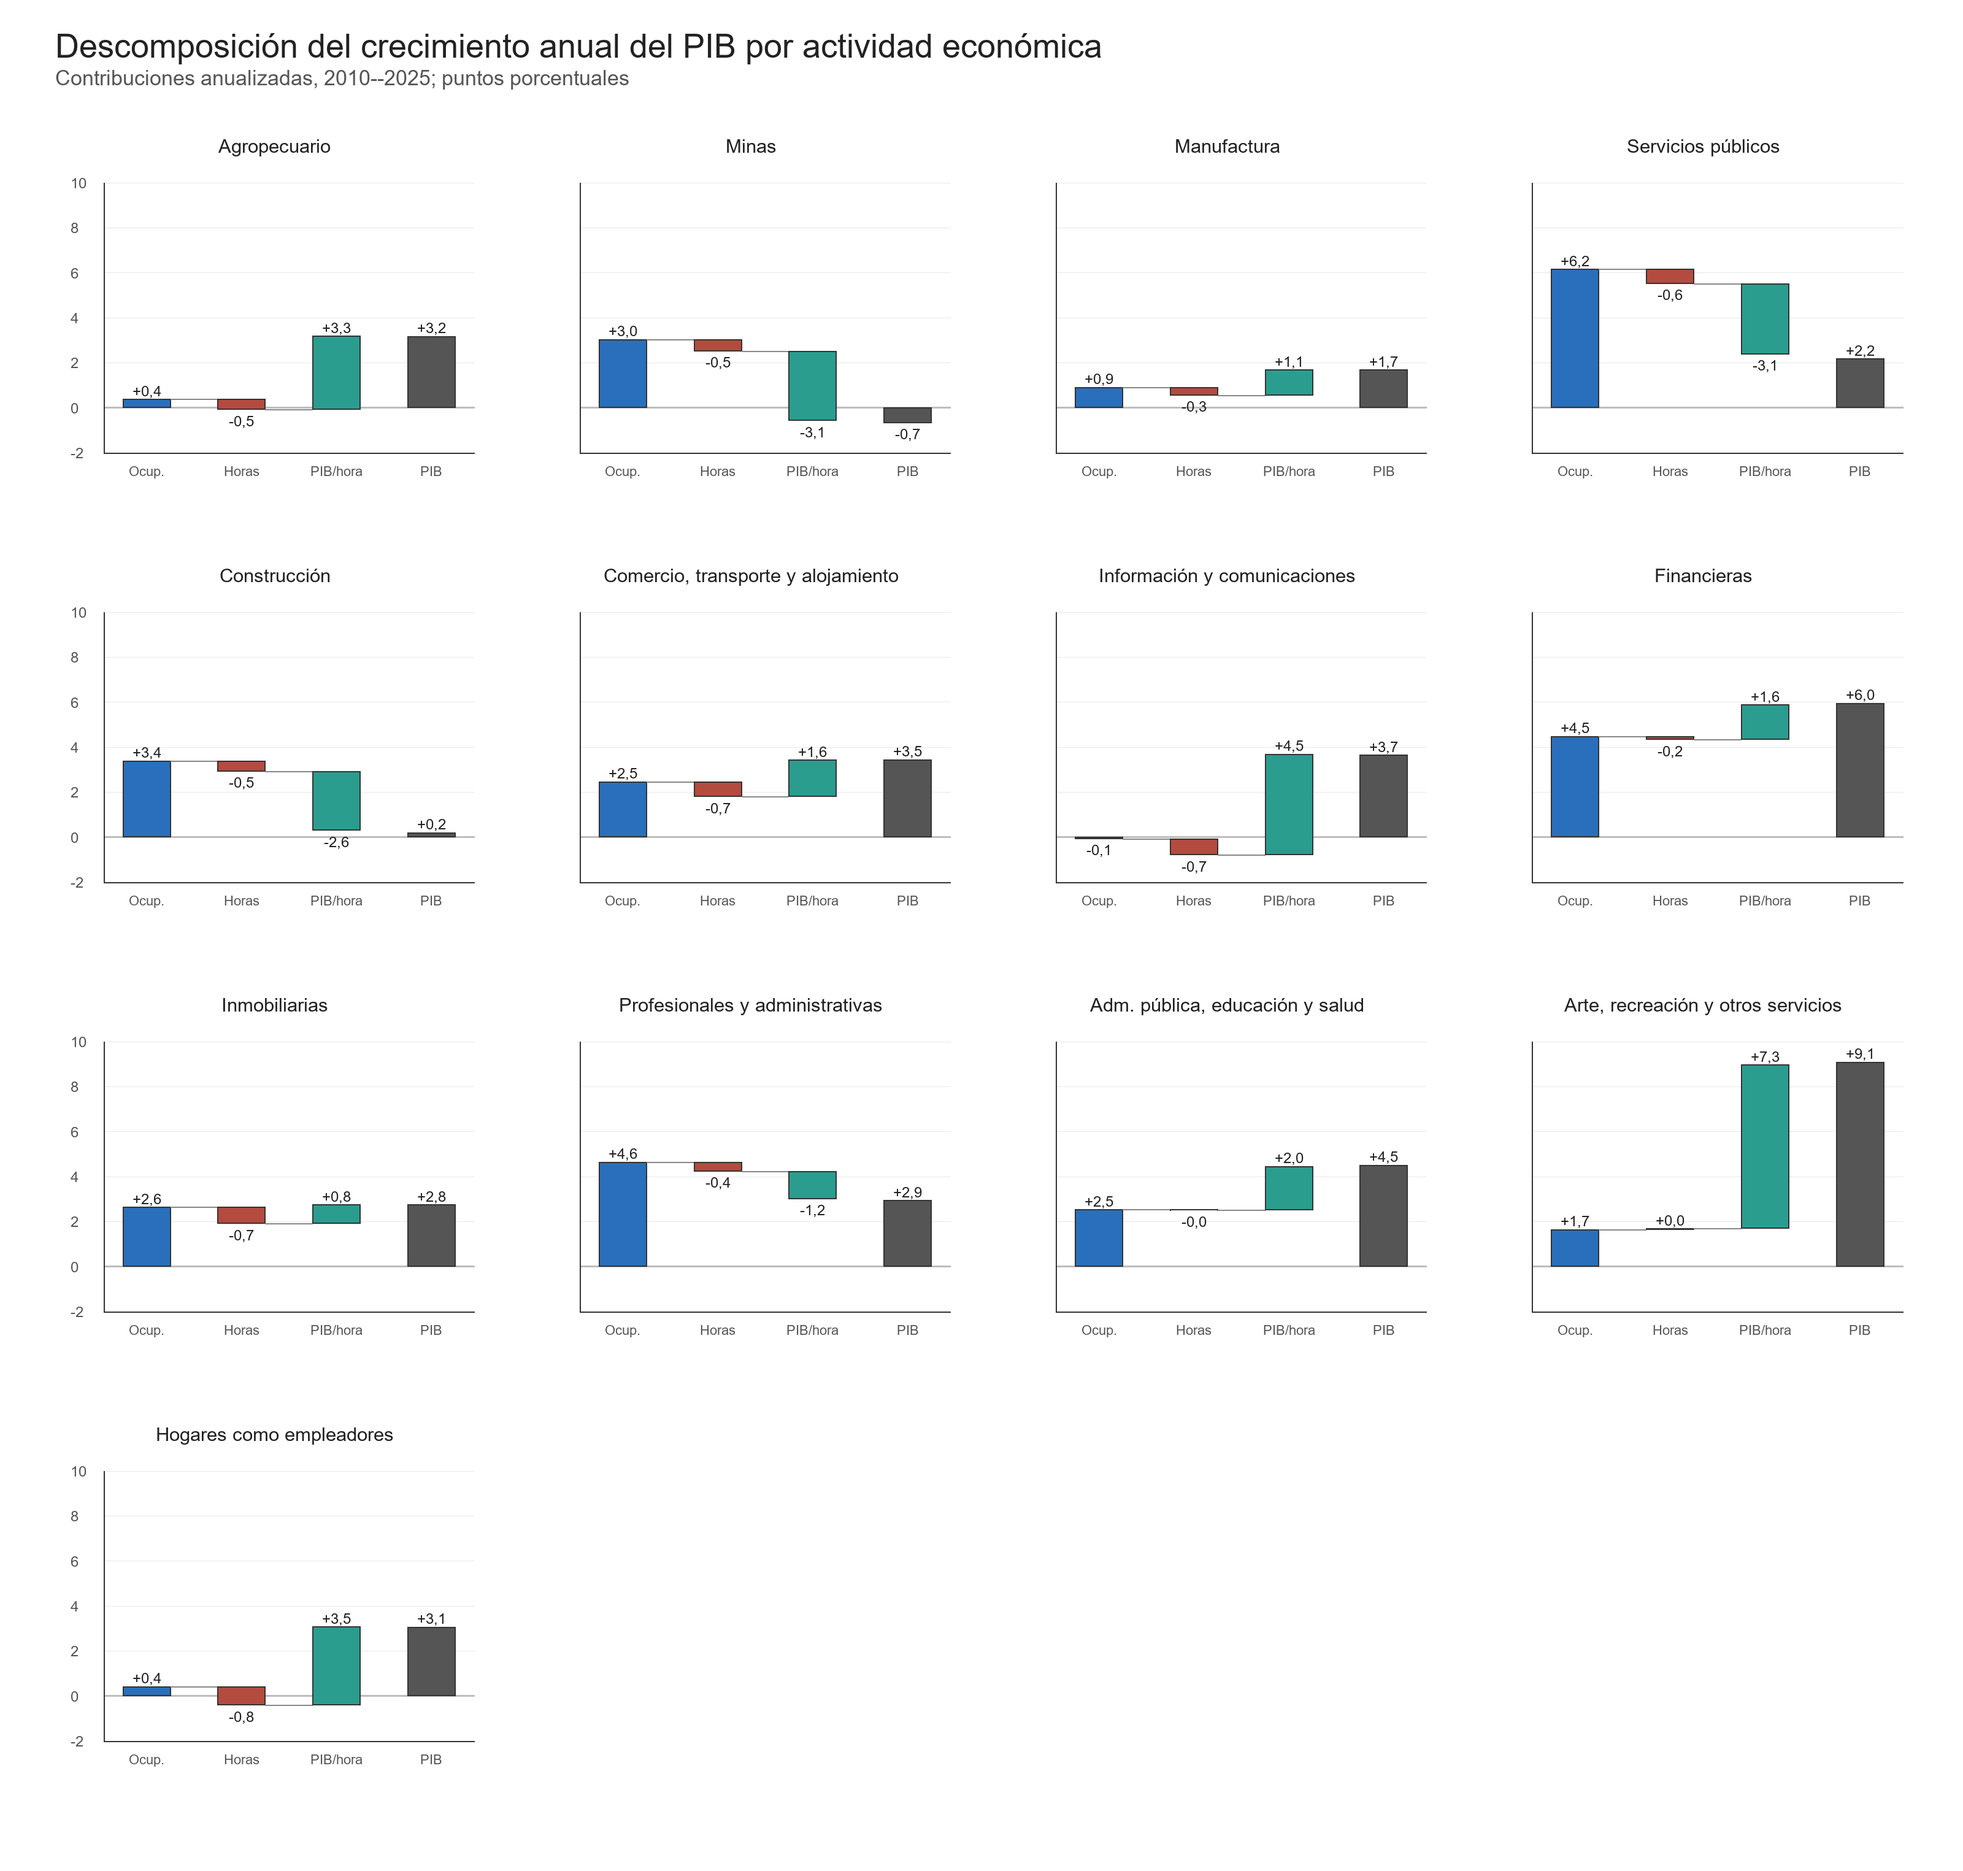
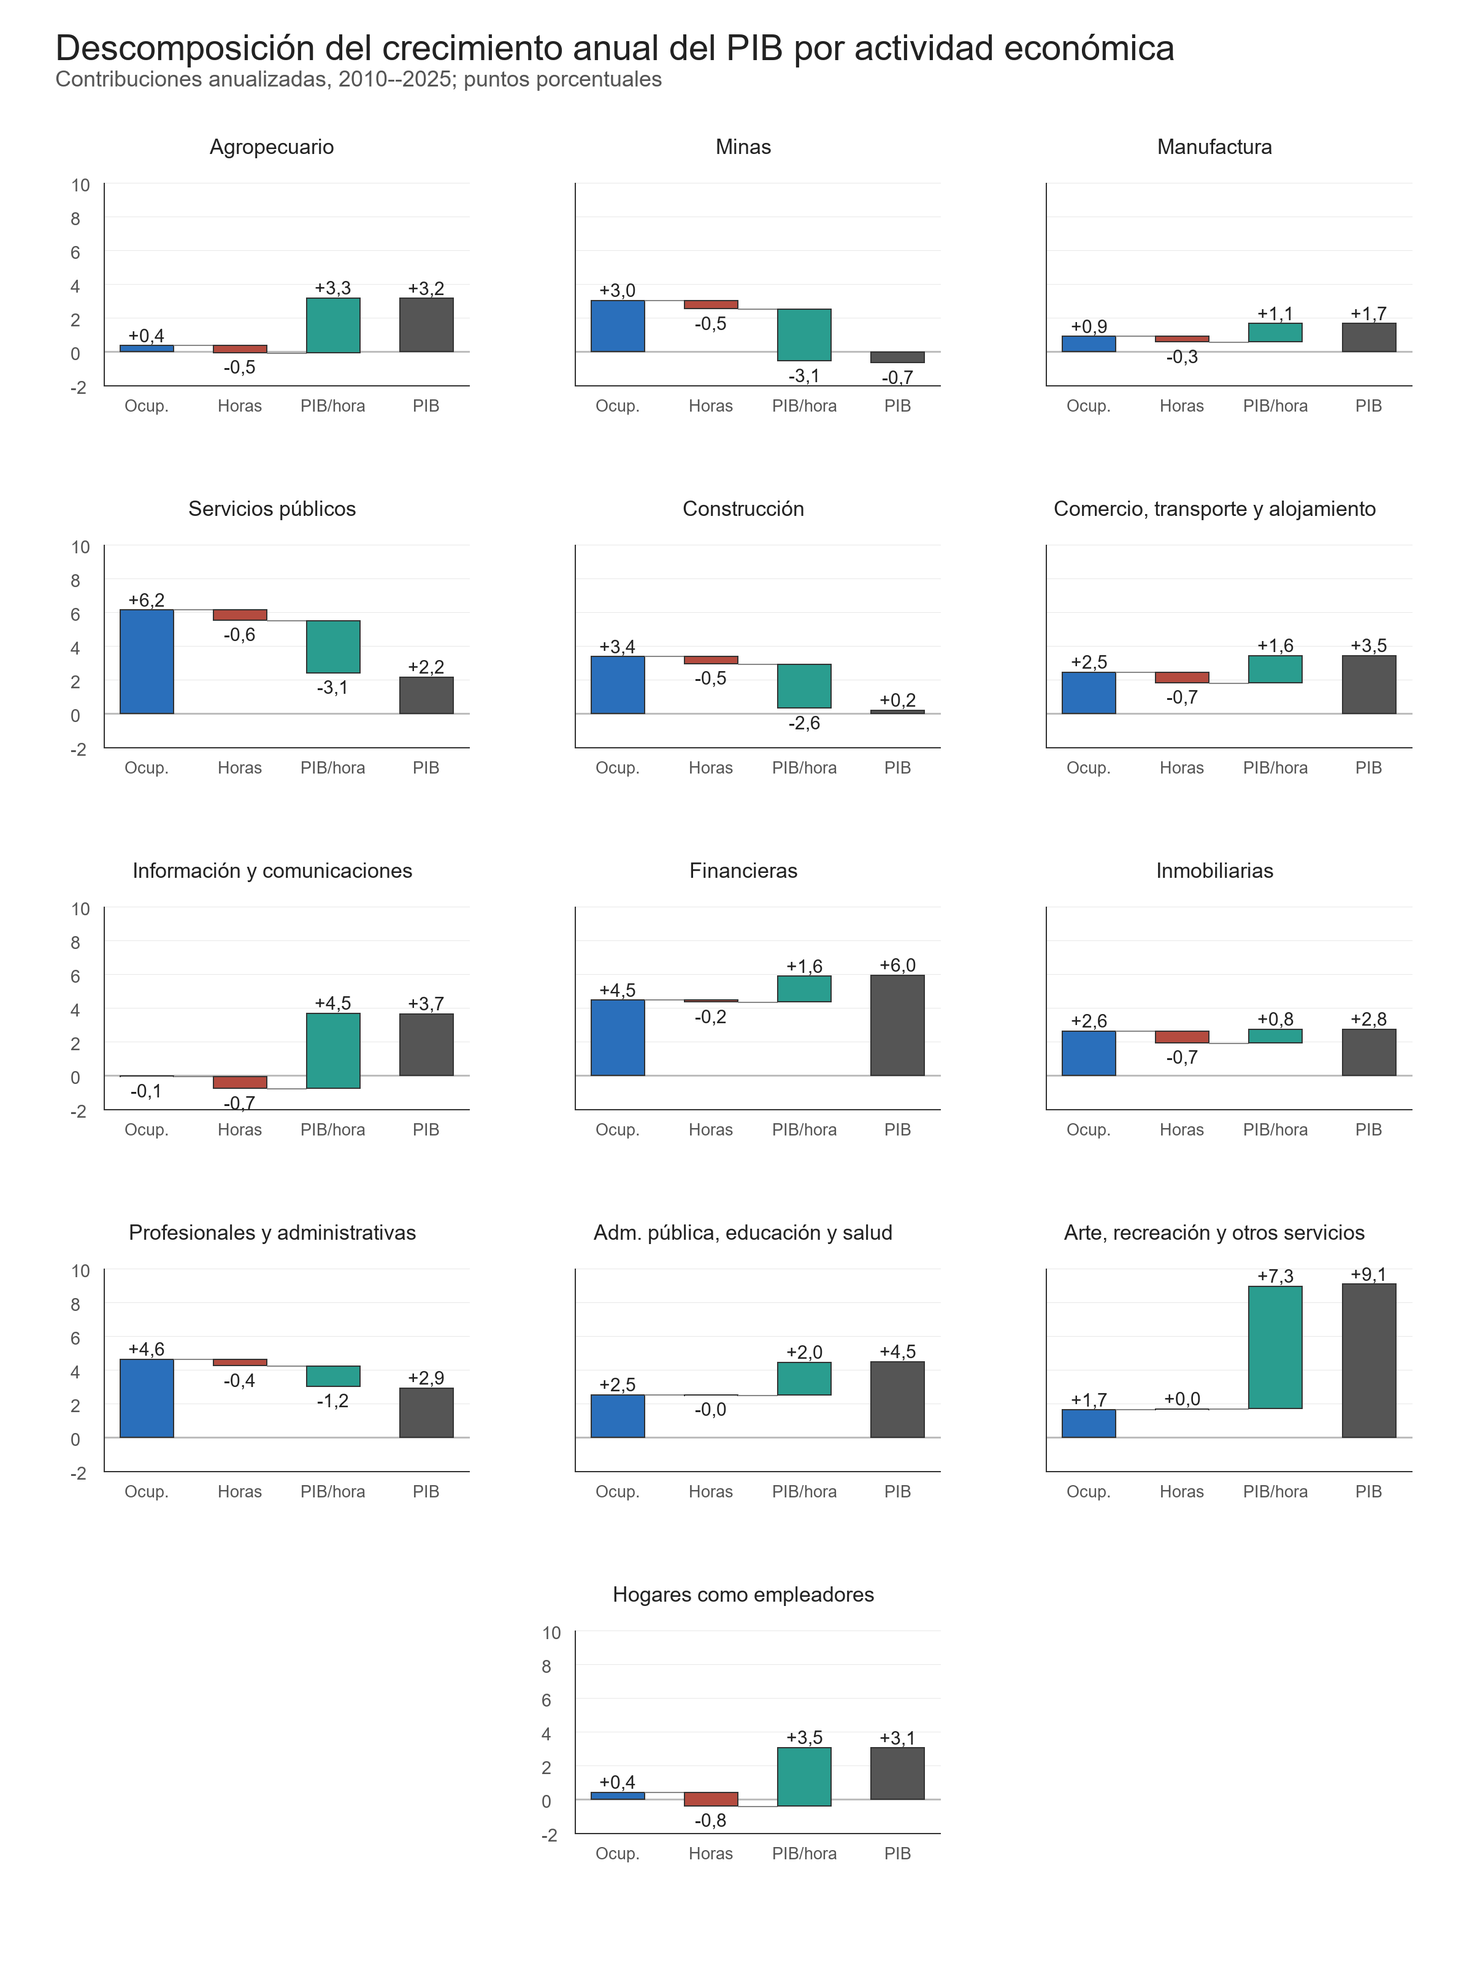
Amplia figura de descomposicion sectorial

diff --git a/Code/02.5_PIB_GEIH_Productividad.py b/Code/02.5_PIB_GEIH_Productividad.py
@@ -3200,18 +3200,18 @@ def draw_sector_growth_decomposition_panels(sector: pd.DataFrame) -> None:
     y_min = min(y_min, -1)
 
     n_panels = len(rows)
-    cols = 4 if n_panels > 12 else 3
+    cols = 3
     panel_rows = math.ceil(n_panels / cols)
-    img_w, img_h = (3200, 3050) if cols == 4 else (2400, 3150)
+    img_w, img_h = 2400, 3200
     img = Image.new("RGB", (img_w, img_h), "white")
     draw = ImageDraw.Draw(img)
     font = ImageFont.load_default()
-    title_font = ImageFont.truetype("arial.ttf", 54) if Path(r"C:\Windows\Fonts\arial.ttf").exists() else font
-    subtitle_font = ImageFont.truetype("arial.ttf", 34) if Path(r"C:\Windows\Fonts\arial.ttf").exists() else font
-    panel_font = ImageFont.truetype("arial.ttf", 31) if Path(r"C:\Windows\Fonts\arial.ttf").exists() else font
-    axis_font = ImageFont.truetype("arial.ttf", 24) if Path(r"C:\Windows\Fonts\arial.ttf").exists() else font
-    value_font = ImageFont.truetype("arial.ttf", 24) if Path(r"C:\Windows\Fonts\arial.ttf").exists() else font
-    small_font = ImageFont.truetype("arial.ttf", 22) if Path(r"C:\Windows\Fonts\arial.ttf").exists() else font
+    title_font = ImageFont.truetype("arial.ttf", 58) if Path(r"C:\Windows\Fonts\arial.ttf").exists() else font
+    subtitle_font = ImageFont.truetype("arial.ttf", 36) if Path(r"C:\Windows\Fonts\arial.ttf").exists() else font
+    panel_font = ImageFont.truetype("arial.ttf", 34) if Path(r"C:\Windows\Fonts\arial.ttf").exists() else font
+    axis_font = ImageFont.truetype("arial.ttf", 29) if Path(r"C:\Windows\Fonts\arial.ttf").exists() else font
+    value_font = ImageFont.truetype("arial.ttf", 30) if Path(r"C:\Windows\Fonts\arial.ttf").exists() else font
+    small_font = ImageFont.truetype("arial.ttf", 27) if Path(r"C:\Windows\Fonts\arial.ttf").exists() else font
 
     def text_width(text: str, used_font) -> int:
         bbox = draw.textbbox((0, 0), text, font=used_font)
@@ -3248,6 +3248,7 @@ def draw_sector_growth_decomposition_panels(sector: pd.DataFrame) -> None:
     gap_x, gap_y = 70, 90
     panel_w = (img_w - margin_left - margin_right - gap_x * (cols - 1)) / cols
     panel_h = (img_h - top_start - bottom_margin - gap_y * (panel_rows - 1)) / panel_rows
+    last_row_count = n_panels - (panel_rows - 1) * cols
 
     tick_start = math.floor(y_min / 2) * 2
     tick_end = math.ceil(y_max / 2) * 2
@@ -3255,7 +3256,8 @@ def draw_sector_growth_decomposition_panels(sector: pd.DataFrame) -> None:
     for idx, row_data in enumerate(rows):
         row = idx // cols
         col = idx % cols
-        panel_left = margin_left + col * (panel_w + gap_x)
+        col_offset = (cols - last_row_count) / 2 if row == panel_rows - 1 and last_row_count < cols else 0
+        panel_left = margin_left + (col + col_offset) * (panel_w + gap_x)
         panel_top = top_start + row * (panel_h + gap_y)
         panel_right = panel_left + panel_w
         panel_bottom = panel_top + panel_h
@@ -3266,7 +3268,7 @@ def draw_sector_growth_decomposition_panels(sector: pd.DataFrame) -> None:
 
         for line_no, text in enumerate(wrap_text(row_data["sector"], panel_font, int(panel_w - 16))[:2]):
             text_x = panel_left + (panel_w - text_width(text, panel_font)) / 2
-            draw.text((text_x, panel_top + line_no * 34), text, fill="#222222", font=panel_font)
+            draw.text((text_x, panel_top + line_no * 37), text, fill="#222222", font=panel_font)
 
         for tick in range(tick_start, tick_end + 1, 2):
             y = y_pos(tick, plot_top, plot_bottom)
@@ -3281,7 +3283,7 @@ def draw_sector_growth_decomposition_panels(sector: pd.DataFrame) -> None:
 
         labels = [item[0] for item in row_data["components"]] + ["PIB"]
         centers = np.linspace(plot_left + 70, plot_right - 70, 4)
-        bar_w = 78
+        bar_w = 88
         running = 0.0
         for bar_idx, (_, value, color) in enumerate(row_data["components"]):
             center = centers[bar_idx]
@@ -3291,7 +3293,7 @@ def draw_sector_growth_decomposition_panels(sector: pd.DataFrame) -> None:
             rect_top, rect_bottom = min(y0, y1), max(y0, y1)
             draw.rectangle((x0, rect_top, x1, rect_bottom), fill=color, outline="#333333", width=2)
             label = fmt_pp(value)
-            label_y = rect_top - 27 if value >= 0 else rect_bottom + 5
+            label_y = rect_top - 33 if value >= 0 else rect_bottom + 6
             draw.text((center - text_width(label, value_font) / 2, label_y), label, fill="#222222", font=value_font)
             running += value
             if bar_idx < 2:
@@ -3304,7 +3306,7 @@ def draw_sector_growth_decomposition_panels(sector: pd.DataFrame) -> None:
         y1 = y_pos(row_data["pib"], plot_top, plot_bottom)
         draw.rectangle((x0, min(y0, y1), x1, max(y0, y1)), fill="#555555", outline="#333333", width=2)
         total_label = fmt_pp(row_data["pib"])
-        label_y = min(y0, y1) - 27 if row_data["pib"] >= 0 else max(y0, y1) + 5
+        label_y = min(y0, y1) - 33 if row_data["pib"] >= 0 else max(y0, y1) + 6
         draw.text((center - text_width(total_label, value_font) / 2, label_y), total_label, fill="#222222", font=value_font)
 
         for center, label in zip(centers, labels):

diff --git a/Paper/informe_productividad.tex b/Paper/informe_productividad.tex
@@ -143,7 +143,7 @@
 
 \begin{figure}[H]
   \centering
-  \includegraphics[width=\textwidth]{Paper/figures/fig_pib_geih_descomposicion_sector.png}
+  \makebox[\textwidth][c]{\includegraphics[width=1.03\textwidth]{Paper/figures/fig_pib_geih_descomposicion_sector.png}}
   \caption{Descomposición del crecimiento anual del PIB por actividad económica, 2010--2025}
   \label{fig:pib_geih_descomposicion_sector}
   \caption*{\footnotesize Nota: las barras intermedias muestran contribuciones aproximadas en puntos porcentuales al crecimiento anualizado del PIB real de cada actividad económica. La barra final muestra el crecimiento anualizado del PIB de la actividad. A nivel de actividad económica, el numerador corresponde al valor agregado bruto. Por redondeo, las contribuciones pueden no sumar exactamente al crecimiento reportado. Fuente: cálculos propios con base en Cuentas Nacionales y GEIH del DANE.}
